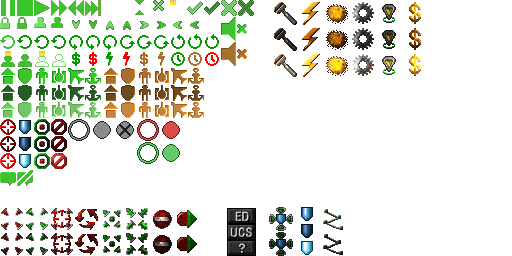
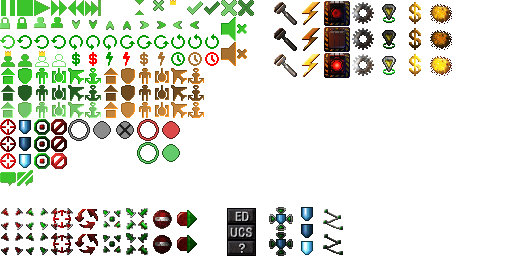
Added self-destruct cursor by Disembo.
Closes #61

diff --git a/README.md b/README.md
@@ -30,7 +30,8 @@ Video previews showcasing latest development:
 	* custom resource sprites (work in progress),
 	* yaml coding support.
 - Disembo
-	* custom animations for MCU deployment.
+	* custom animations for MCU deployment,
+	* custom self-destruct cursor.
 
 ## Special thanks!
 
